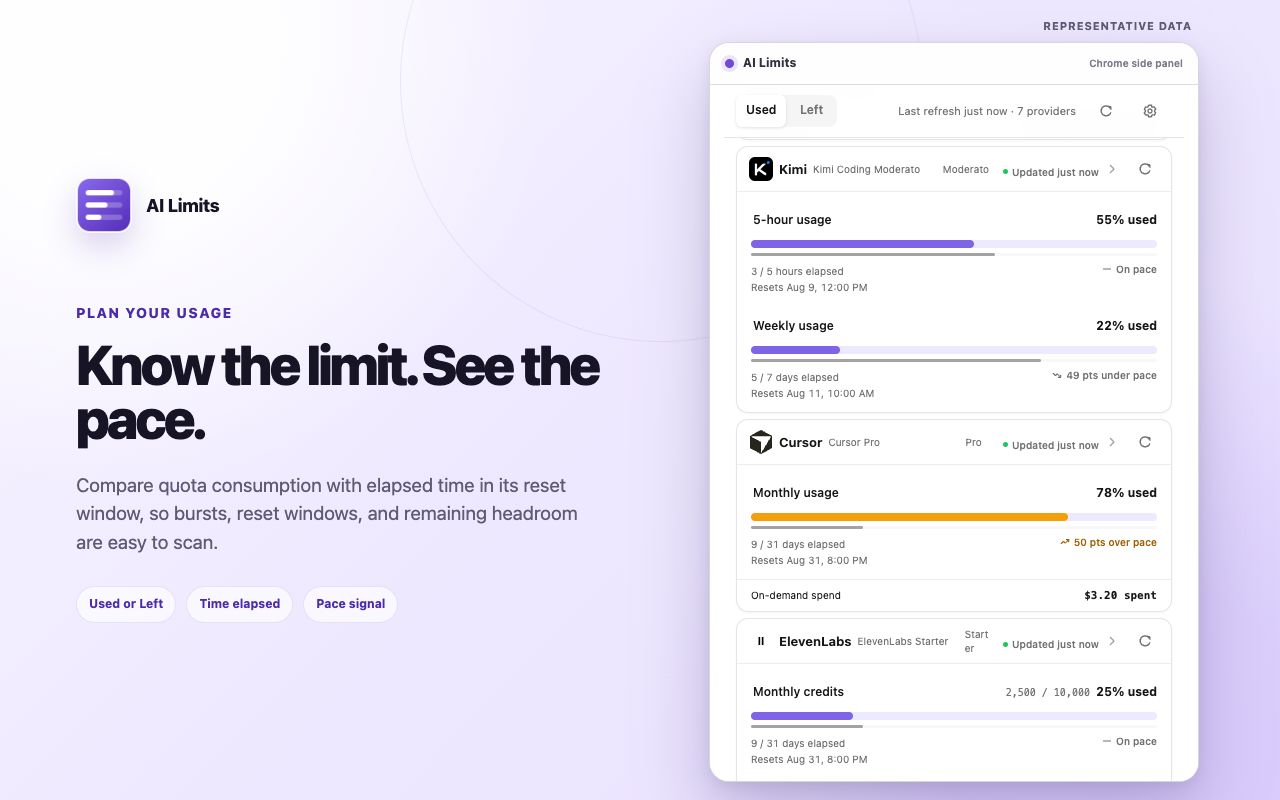
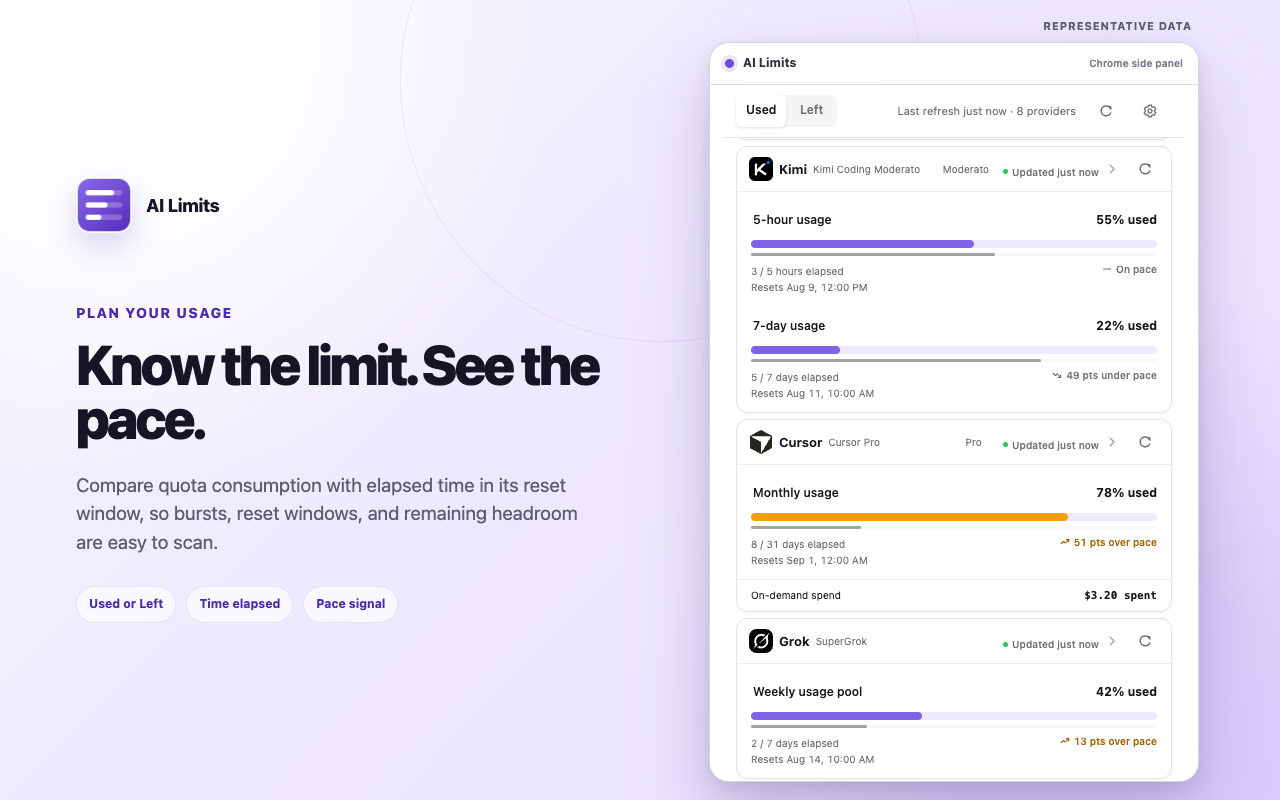
feat(store-assets): regenerate store artwork with two weeks of sample History and a Chinese UI
The capture preview stopped resolving WXT's #i18n module once the side panel
gained a translation catalog, so store artwork could no longer be regenerated.
The preview now compiles both catalogs from locales/*.yml and pins the panel
to the capture's language, so the zh_CN images show the Chinese interface.

Every fixture provider gets 14 days of deterministic synthetic History, and
the History image opens the 48-hour range so windows visibly climb and reset.
The overview and social copy state the 22 supported services instead of
naming seven brands, and the promo tile renders the panel at 460 px so plan
badges no longer wrap.

diff --git a/store-assets/preview/store-history.ts b/store-assets/preview/store-history.ts
@@ -1,0 +1,124 @@
+import { observationFromUsage } from "../../domain/history";
+import type { QuotaMetric, UsageSnapshot } from "../../domain/model";
+import type { AppViewState } from "../../domain/public-protocol";
+
+const MINUTE = 60 * 1_000;
+const HOUR = 60 * MINUTE;
+const DAY = 24 * HOUR;
+
+/** Days of synthetic History behind each store-artwork provider. */
+export const STORE_HISTORY_DAYS = 14;
+/** Fixture clock zone offset (America/Toronto in August, UTC-4). */
+const FIXTURE_ZONE_OFFSET = -4 * HOUR;
+
+/** Deterministic 0–1 noise, so every capture draws the same chart. */
+function noise(seed: number): number {
+  const x = Math.sin(seed * 12.9898 + 78.233) * 43_758.5453;
+  return x - Math.floor(x);
+}
+
+function seedOf(text: string): number {
+  let hash = 0;
+  for (const character of text) hash = (hash * 31 + character.charCodeAt(0)) % 9_973;
+  return hash;
+}
+
+/** Reading times: every 15 minutes for 48 hours, hourly before that. */
+export function storeHistoryTimes(now: number): number[] {
+  const times: number[] = [];
+  for (let at = now - STORE_HISTORY_DAYS * DAY; at < now; ) {
+    times.push(at);
+    at += now - at <= 48 * HOUR ? 15 * MINUTE : HOUR;
+  }
+  return times;
+}
+
+interface WindowPlan {
+  start: number;
+  reset: number;
+  /** Used ratio the window reaches at its last reading. */
+  end: number;
+}
+
+function windowFor(metric: QuotaMetric, at: number, now: number): WindowPlan | undefined {
+  const cycle = metric.cycle;
+  if (!cycle?.resetsAt || !cycle.durationMs) return undefined;
+  const duration = cycle.durationMs;
+  const back = Math.floor((cycle.resetsAt - at) / duration);
+  const reset = cycle.resetsAt - back * duration;
+  const start = reset - duration;
+  if (back === 0) return { start, reset, end: metric.usedRatio };
+
+  const seed = seedOf(metric.id) + back * 7;
+  const localStartHour = new Date(start + FIXTURE_ZONE_OFFSET).getUTCHours();
+  const overnight = duration <= 6 * HOUR && localStartHour >= 0 && localStartHour < 7;
+  const end = overnight
+    ? 0.04 * noise(seed)
+    : Math.min(0.97, 0.38 + 0.55 * noise(seed));
+  return { start, reset, end: start + duration > now ? metric.usedRatio : end };
+}
+
+/**
+ * Used ratio at `at`: a bursty, never-decreasing climb from 0 at the window
+ * start to the window's final value, which resets to 0 at the next window.
+ */
+function usedAt(metric: QuotaMetric, plan: WindowPlan, at: number, times: readonly number[], now: number): number {
+  const last = Math.min(plan.reset, now);
+  const inWindow = times.filter((time) => time >= plan.start && time <= last);
+  const weights = inWindow.map((time) => noise(seedOf(metric.id) + time / MINUTE) ** 3);
+  const total = weights.reduce((sum, weight) => sum + weight, 0) || 1;
+  let climbed = 0;
+  for (const [index, time] of inWindow.entries()) {
+    if (time > at) break;
+    climbed += weights[index] ?? 0;
+  }
+  return Math.round(plan.end * (climbed / total) * 1_000) / 1_000;
+}
+
+function snapshotAt(snapshot: UsageSnapshot, at: number, times: readonly number[], now: number): UsageSnapshot {
+  return {
+    ...snapshot,
+    fetchedAt: at,
+    metrics: snapshot.metrics.map((metric) => {
+      if (metric.type !== "quota") return metric;
+      const plan = windowFor(metric, at, now);
+      if (!plan || !metric.cycle) return metric;
+      const usedRatio = usedAt(metric, plan, at, [...times, now], now);
+      return {
+        ...metric,
+        usedRatio,
+        ...(metric.used !== undefined && metric.limit !== undefined
+          ? { used: Math.round(metric.limit * usedRatio) }
+          : {}),
+        cycle: {
+          ...metric.cycle,
+          ...(metric.cycle.startedAt === undefined ? {} : { startedAt: plan.start }),
+          resetsAt: plan.reset,
+        },
+      };
+    }),
+  };
+}
+
+/**
+ * Replace each fixture instance's three-reading History with two weeks of
+ * synthetic readings, so the store History artwork shows real climbs and
+ * resets. Representative data only: nothing comes from a real account.
+ */
+export function withStoreHistory(state: AppViewState, now: number): AppViewState {
+  const times = storeHistoryTimes(now);
+  return {
+    ...state,
+    instances: state.instances.map((instance) => {
+      const snapshot = instance.snapshot;
+      if (!snapshot) return instance;
+      return {
+        ...instance,
+        history: [
+          ...times.map((at) => observationFromUsage(snapshotAt(snapshot, at, times, now))),
+          observationFromUsage(snapshot),
+        ],
+      };
+    }),
+  };
+}

diff --git a/store-assets/preview/copy.ts b/store-assets/preview/copy.ts
@@ -249,7 +249,7 @@ export const previewContent: Record<PreviewLanguage, PreviewContent> = {
       eyebrow: "One Chrome side panel",
       title: "Every AI limit, in one quiet view.",
       description:
-        "See seven providers and multiple independent New API instances as Used or Left, with reset timing and local History.",
+        "See every connected provider and multiple independent New API instances as Used or Left, with reset timing, pace, and local History.",
     },
     pacing: {
       eyebrow: "Plan your usage",
@@ -261,7 +261,7 @@ export const previewContent: Record<PreviewLanguage, PreviewContent> = {
       eyebrow: "See the trend",
       title: "History that stays on your device.",
       description:
-        "Quota graphs use per-instance typed history from successful local refreshes, with reset-aware gaps instead of misleading lines.",
+        "Watch each window climb and reset, with a plain pace headline. Built from local refreshes and kept on this device.",
     },
     privacy: {
       eyebrow: "Local by design",
@@ -277,10 +277,10 @@ export const previewContent: Record<PreviewLanguage, PreviewContent> = {
     social: {
       eyebrow: "Chrome side panel",
       title: "Usage limits, in one view.",
-      description: "7 providers · Multiple New API instances",
+      description: "22 supported AI services · Multiple New API instances",
     },
     chromeSidePanelLabel: "Chrome side panel",
-    providerLine: "ChatGPT · Claude · Kimi · Cursor · Grok · ElevenLabs · New API",
+    providerLine: "22 supported AI services",
     pacingNotes: ["Used or Left", "Time elapsed", "Pace signal"],
     privacyNotes: [
       "Provider access is opt-in",
@@ -299,7 +299,7 @@ export const previewContent: Record<PreviewLanguage, PreviewContent> = {
       eyebrow: "一个 Chrome 侧边栏",
       title: "AI 用量限制，一目了然。",
       description:
-        "统一查看七个服务和多个相互独立的 New API 实例，包括已用或剩余、重置时间和本地历史。",
+        "统一查看每个已连接服务和多个相互独立的 New API 实例，包括已用或剩余、重置时间、用量节奏和本地历史。",
     },
     pacing: {
       eyebrow: "规划你的用量",
@@ -311,7 +311,7 @@ export const previewContent: Record<PreviewLanguage, PreviewContent> = {
       eyebrow: "查看变化趋势",
       title: "用量历史，仅存本地。",
       description:
-        "配额图表使用每个实例的类型化历史；跨越重置周期或数据缺失时保留间隔，避免误导趋势。",
+        "查看每个周期的用量如何上升、何时重置，并用一句话说明当前节奏。数据来自本地刷新，只保存在这台设备上。",
     },
     privacy: {
       eyebrow: "数据仅存本地",
@@ -327,10 +327,10 @@ export const previewContent: Record<PreviewLanguage, PreviewContent> = {
     social: {
       eyebrow: "Chrome 侧边栏",
       title: "AI 用量限制，一目了然。",
-      description: "7 个服务 · 多个 New API 实例",
+      description: "支持 22 个 AI 服务 · 多个 New API 实例",
     },
     chromeSidePanelLabel: "Chrome 侧边栏",
-    providerLine: "ChatGPT · Claude · Kimi · Cursor · Grok · ElevenLabs · New API",
+    providerLine: "支持 22 个 AI 服务",
     pacingNotes: ["已用或剩余", "已过时间", "用量节奏"],
     privacyNotes: [
       "服务访问需主动授权",
@@ -338,7 +338,7 @@ export const previewContent: Record<PreviewLanguage, PreviewContent> = {
       "无分析追踪或远程后端",
     ],
     productPreviewLabel: "AI Limits 产品预览",
-    representativeLabel: "示例数据 · 扩展界面暂为英文",
+    representativeLabel: "示例数据",
     socialNotes: [
       "已用或剩余 · 重置时间 · 用量节奏 · 本地历史",
       "历史仅存本地，无远程后端。",

diff --git a/store-assets/preview/copy.test.ts b/store-assets/preview/copy.test.ts
@@ -178,12 +178,12 @@ describe("store artwork copy", () => {
     expect(parsePreviewLanguage(new URLSearchParams())).toBe("en");
   });
 
-  it("keeps the Chinese media honest about the embedded English interface", () => {
-    expect(previewContent.zh_CN.representativeLabel).toContain("英文");
+  it("labels the Chinese media as sample data around a Chinese interface", () => {
+    expect(previewContent.zh_CN.representativeLabel).toBe("示例数据");
     expect(previewContent.zh_CN.overview.title).toMatch(/[\u3400-\u9fff]/u);
     expect(previewContent.zh_CN.history.title).toMatch(/[\u3400-\u9fff]/u);
-    expect(previewContent.zh_CN.history.description).toContain("每个实例");
-    expect(previewContent.zh_CN.history.description).toContain("类型化历史");
+    expect(previewContent.zh_CN.history.description).toContain("本地刷新");
+    expect(previewContent.zh_CN.history.description).toContain("这台设备");
   });
 
   it("gives local quota history a dedicated store-artwork view", () => {
@@ -191,7 +191,7 @@ describe("store artwork copy", () => {
     expect(previewContent.en.history.description).toMatch(/local/i);
     expect(previewContent.en.history.description).toMatch(/refresh/i);
     expect(previewContent.en.history.description).toContain(
-      "Quota graphs use per-instance typed history",
+      "climb and reset",
     );
   });
 
@@ -199,24 +199,20 @@ describe("store artwork copy", () => {
     expect(previewContent.en.social).toEqual({
       eyebrow: "Chrome side panel",
       title: "Usage limits, in one view.",
-      description: "7 providers · Multiple New API instances",
+      description: "22 supported AI services · Multiple New API instances",
     });
     expect(previewContent.en.socialNotes).toEqual([
       "Used or Left · Reset timing · Pace · Local history",
       "Local history. No remote backend.",
     ]);
     expect(previewContent.zh_CN.social.description).toBe(
-      "7 个服务 · 多个 New API 实例",
+      "支持 22 个 AI 服务 · 多个 New API 实例",
     );
   });
 
-  it("names all seven supported providers in the overview artwork", () => {
-    expect(previewContent.en.providerLine).toBe(
-      "ChatGPT · Claude · Kimi · Cursor · Grok · ElevenLabs · New API",
-    );
-    expect(previewContent.zh_CN.providerLine).toBe(
-      "ChatGPT · Claude · Kimi · Cursor · Grok · ElevenLabs · New API",
-    );
+  it("states the supported-service count instead of naming brands in the overview artwork", () => {
+    expect(previewContent.en.providerLine).toBe("22 supported AI services");
+    expect(previewContent.zh_CN.providerLine).toBe("支持 22 个 AI 服务");
   });
 
   it("makes multi-instance New API support visible in both overview languages", () => {

diff --git a/store-assets/preview/main.tsx b/store-assets/preview/main.tsx
@@ -20,6 +20,8 @@ import {
   createStorePreviewState,
 } from "./preview-state";
 import "./styles.css";
+import catalogs from "virtual:ai-limits-preview-catalogs";
+import { applyLocaleOverride, preloadLocaleCatalog } from "../../i18n/index";
 
 const DEFAULT_CAPTURE_NOW = Date.parse(FIDELITY_FIXED_CLOCK);
 
@@ -349,6 +351,25 @@ if (!root) {
 
 const fidelityRequest = parseFidelityRequest(
   new URLSearchParams(window.location.search),
+);
+
+// The preview runs outside the extension, so give the locale runtime a
+// no-op storage area and pin the panel to the capture's language.
+const previewStorage = {
+  get: async () => ({}),
+  set: async () => undefined,
+  remove: async () => undefined,
+};
+(globalThis as { browser?: unknown }).browser ??= {
+  storage: { local: previewStorage },
+  runtime: { getManifest: () => ({}), getURL: (path: string) => path },
+};
+preloadLocaleCatalog("en", catalogs.en);
+preloadLocaleCatalog("zh_CN", catalogs.zh_CN);
+await applyLocaleOverride(
+  fidelityRequest
+    ? "en"
+    : parsePreviewLanguage(new URLSearchParams(window.location.search)),
 );
 
 createRoot(root).render(

diff --git a/store-assets/preview/preview-state.ts b/store-assets/preview/preview-state.ts
@@ -9,6 +9,7 @@ import {
 } from "../../providers/fixtures";
 import type { FidelityRequest, FidelityScenario } from "./copy";
 import { prepareFidelityViewState } from "./fidelity-state";
+import { withStoreHistory } from "./store-history";
 
 function parsePreviewState(candidate: unknown): AppViewState {
   return parseAppViewState(candidate);
@@ -71,7 +72,14 @@ export function createStorePreviewState(
     return fixtureViewState(initial, now);
   }
 
-  return fixtureViewState(fixture, now);
+  // "Grok SuperGrok" beside the "SuperGrok" plan badge says the plan twice
+  // and squeezes the badge onto two lines at artwork width.
+  for (const instance of fixture.instances) {
+    if (instance.providerKind === "grok" && instance.snapshot) {
+      delete instance.snapshot.accountLabel;
+    }
+  }
+  return withStoreHistory(fixtureViewState(fixture, now), now);
 }
 
 export function createFidelityPreviewState(

diff --git a/store-assets/preview/styles.css b/store-assets/preview/styles.css
@@ -360,10 +360,10 @@ body {
   position: absolute;
   top: 0;
   left: 0;
-  width: 400px;
-  height: 498px;
+  width: 460px;
+  height: 573px;
   border-radius: 20px;
-  transform: scale(0.49);
+  transform: scale(0.426);
   transform-origin: top left;
   box-shadow: 0 28px 58px rgb(46 31 92 / 24%);
 }

diff --git a/store-assets/preview/virtual-catalogs.d.ts b/store-assets/preview/virtual-catalogs.d.ts
@@ -1,0 +1,4 @@
+declare module "virtual:ai-limits-preview-catalogs" {
+  const catalogs: Record<"en" | "zh_CN", Record<string, { message: string }>>;
+  export default catalogs;
+}

diff --git a/store-assets/README.md b/store-assets/README.md
@@ -48,11 +48,8 @@ Web Store screenshots, but they are not part of the current English store
 submission. Chrome Web Store promotional tiles are not localized, so there is
 no separate Chinese promotional tile.
 
-The side panel now supports English and Simplified Chinese. The current Chinese
-GitHub images still embed the English production UI; only the surrounding
-project copy is Chinese. Regenerate them so the embedded UI uses the Simplified
-Chinese catalog. The capture preview currently still leaves the production
-Cockpit in English even when `locale=zh_CN`.
+The side panel supports English and Simplified Chinese, and the Chinese images
+embed the production UI rendered from the Simplified Chinese catalog.
 
 ### GitHub repository artwork
 
@@ -81,18 +78,20 @@ AI_LIMITS_CHROME_PATH=/absolute/path/to/chrome pnpm assets:store
 The preview uses the fixed instant `2026-08-09T14:00:00.000Z`, forces light
 mode, `en-US`, `America/Toronto`, and a device scale factor of 1, and creates a
 fresh browser context without a user profile. The `locale=zh_CN` preview option
-localizes only the surrounding project copy; it currently still leaves the
-production extension UI in English. The pacing image aligns the complete Kimi
+localizes both the surrounding project copy and the production side panel,
+which the preview pins to the catalog compiled from `locales/zh_CN.yml`. Every
+fixture provider carries two weeks of synthetic, deterministic History
+(15-minute readings for 48 hours, hourly before that) so the History image
+shows windows climbing and resetting. The pacing image aligns the complete Kimi
 and Cursor cards below the real sticky side-panel header at production scale.
 The History image follows the real ChatGPT quota action into the dedicated
-History screen and verifies that its chart and current-cycle surface fit inside
+History screen, selects the 48-hour range, and verifies that its chart and current-cycle surface fit inside
 the panel frame. The privacy image opens the real Settings view through its real
 button, then verifies that the nonpersonal **Demo relay A** and **Demo relay B**
 New API instance rows and their per-instance actions both fit inside the panel
-frame. The overview provider line remains a representative seven-provider
-fixture; the listing copy and supported-providers document carry the complete
-twenty-two-provider roster. Expanding demo fixtures is intentionally a separate
-UI-test update.
+frame. The overview shows a representative eight-instance fixture, so its
+provider line states the supported count rather than naming brands; the
+supported-providers document carries the complete twenty-two-provider roster.
 
 Never generate store artwork from a browser profile, extension storage,
 provider website, network credential, or live provider response. Representative
